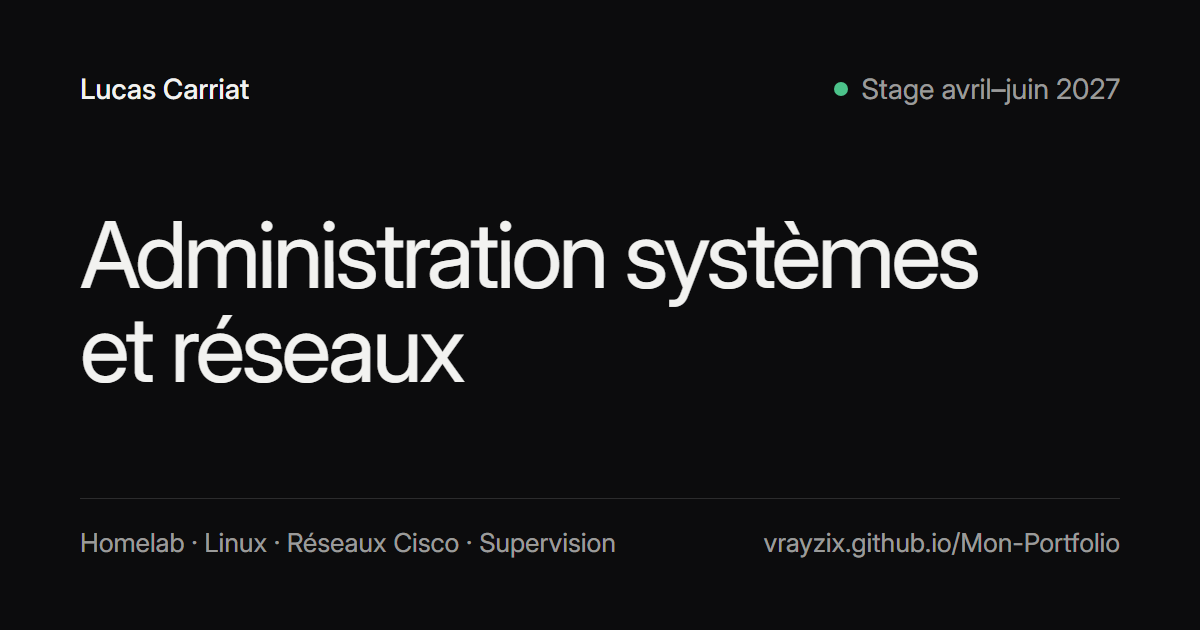
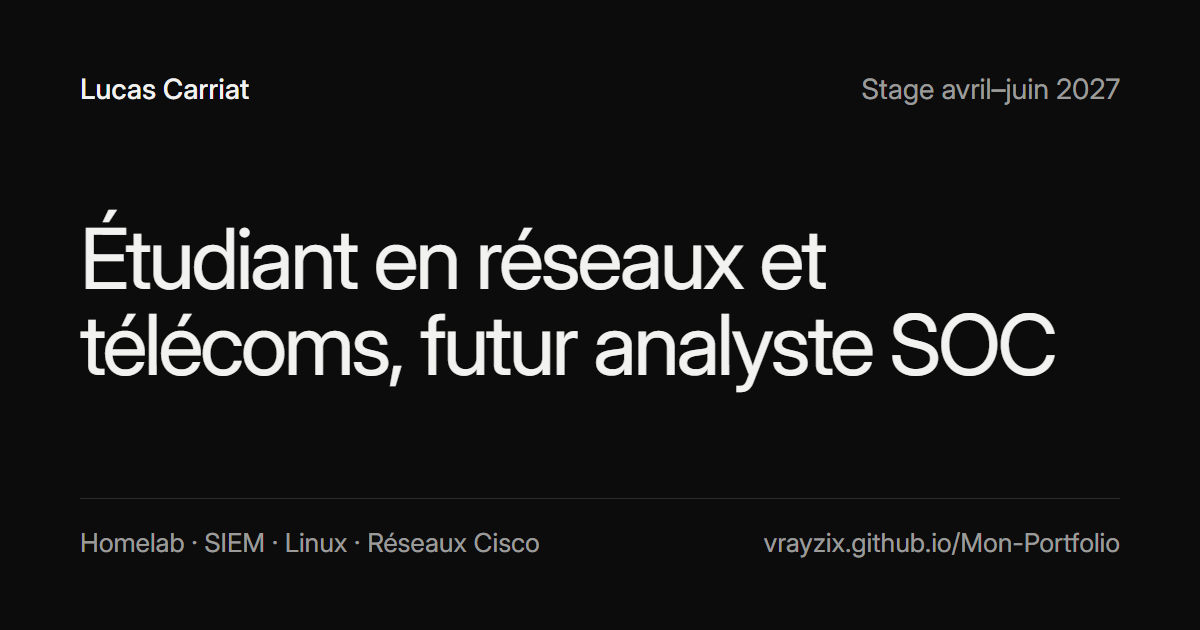
feat: simplify positioning and make the site easier to navigate
- Plain hero statement (networks and telecoms student, future SOC
  analyst) with the internship as the lede; drop the status dot
- Larger section headings with a one-line intro on the home page,
  Contact link in the main navigation, project type above each card
- Table of contents visible at every width on case study pages
- Homelab page regrouped into fewer sections with a summary first;
  tool versions and the version column removed
- Project periods and other dates removed from the site
- Open Graph image updated to the new statement

Changed region(s): [[0.0617, 0.3317, 0.8942, 0.6333], [0.1542, 0.8444, 0.5242, 0.8746], [0.6783, 0.1206, 0.7092, 0.1508]]

diff --git a/src/styles/global.css b/src/styles/global.css
@@ -94,19 +94,25 @@ pre {
 .section-head {
   display: flex;
   flex-wrap: wrap;
-  align-items: baseline;
+  align-items: flex-end;
   justify-content: space-between;
   gap: var(--space-3) var(--space-6);
   margin-block-end: var(--space-7);
-  padding-block-start: var(--space-4);
+  padding-block-start: var(--space-5);
   border-block-start: 1px solid var(--border);
 }
 
 .section-title {
-  font-size: var(--step--1);
-  font-weight: var(--weight-medium);
-  letter-spacing: 0;
+  font-size: var(--step-2);
+  font-weight: var(--weight-regular);
+  line-height: var(--leading-snug);
+  letter-spacing: var(--tracking-heading);
   color: var(--fg);
+}
+
+.section-intro {
+  margin-block-start: var(--space-2);
+  color: var(--fg-muted);
 }
 
 .section-link {

diff --git a/src/lib/site.ts b/src/lib/site.ts
@@ -1,8 +1,8 @@
 export const site = {
   name: 'Lucas Carriat',
-  role: 'Administration systèmes et réseaux',
+  role: 'Étudiant en réseaux et télécoms, futur analyste SOC',
   description:
-    'Lucas Carriat, futur administrateur systèmes et réseaux. Homelab Linux supervisé et sécurisé, déploiements Debian, réseaux Cisco. Recherche un stage d’avril à juin 2027.',
+    'Lucas Carriat, étudiant en réseaux et télécommunications, futur analyste SOC. Homelab supervisé et relié à un SIEM, déploiements Debian, réseaux Cisco. Recherche un stage d’avril à juin 2027.',
   locale: 'fr_FR',
   email: 'lucalexandrecrr@gmail.com',
   linkedin: 'https://www.linkedin.com/in/lucas-c-961610396/',
